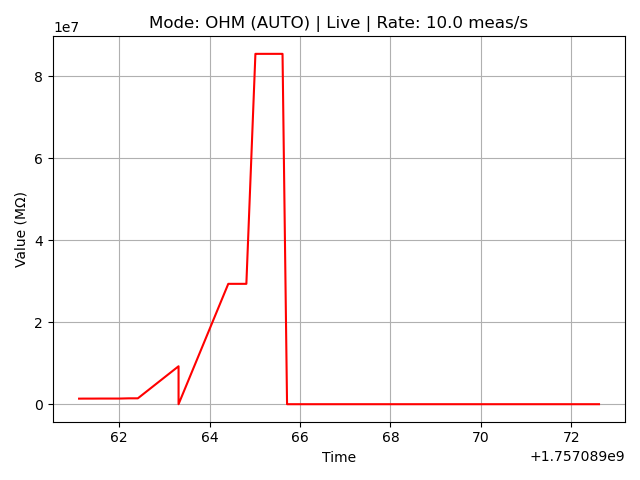
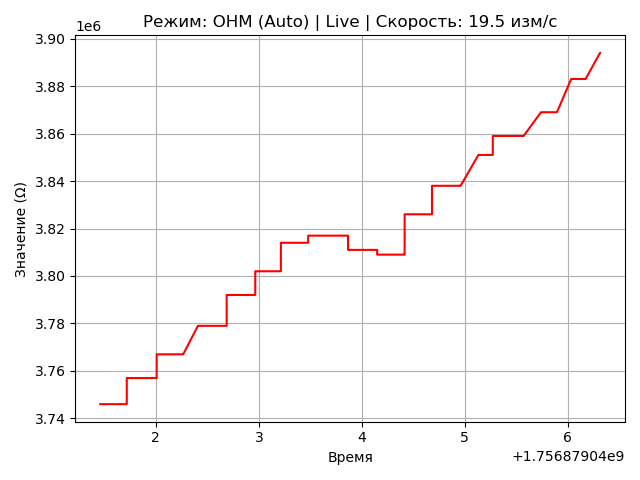
init

diff --git a/simple_examples.py b/simple_examples.py
@@ -3,55 +3,56 @@ import time
 import os
 import pandas as pd
 from ut61eplus import UT61EPLUS
+from ut61eplus import data_collector
 
-# --- CONFIGURATION ---
+# --- НАСТРОЙКА ---
 log = logging.getLogger(__name__)
 logging.basicConfig(level=logging.INFO, format='%(asctime)s - %(levelname)s - %(message)s')
 
 def example_single_measurement():
-    """Example: connect, read a single measurement, and disconnect."""
-    print("\n--- Example 1: Reading a single measurement ---")
+    """Пример: подключиться, прочитать одно измерение и отключиться."""
+    print("\n--- Пример 1: Чтение одного измерения ---")
     dmm = None
     try:
         dmm = UT61EPLUS()
         measurement = dmm.take_measurement()
         if measurement:
             data = measurement.to_dict()
-            print("Data received:")
+            print("Получены данные:")
             print(data)
         else:
-            print("Failed to get measurement.")
+            print("Не удалось получить измерение.")
     except Exception as e:
-        log.error(f"An error occurred: {e}")
+        log.error(f"Произошла ошибка: {e}")
     finally:
         if dmm:
             dmm.close()
 
 def example_multiple_measurements(count=5):
-    """Example: reading multiple measurements in a loop."""
-    print(f"\n--- Example 2: Reading {count} measurements ---")
+    """Пример: чтение нескольких измерений в цикле."""
+    print(f"\n--- Пример 2: Чтение {count} измерений ---")
     dmm = None
     try:
         dmm = UT61EPLUS()
         for i in range(count):
             measurement = dmm.take_measurement()
             if measurement:
-                print(f"Measurement {i+1}: {measurement.to_dict()}")
+                print(f"Измерение {i+1}: {measurement.to_dict()}")
             else:
-                print(f"Measurement {i+1}: Failed to get.")
-            time.sleep(0.5) # A small pause between measurements
+                print(f"Измерение {i+1}: Не удалось получить.")
+            time.sleep(0.5) # Небольшая пауза между измерениями
     except Exception as e:
-        log.error(f"An error occurred: {e}")
+        log.error(f"Произошла ошибка: {e}")
     finally:
         if dmm:
             dmm.close()
 
 def example_log_to_csv(duration_seconds=10):
-    """Example: continuous logging of data to a CSV file for a specified duration."""
-    print(f"\n--- Example 3: Logging to CSV for {duration_seconds} seconds ---")
+    """Пример: непрерывная запись данных в CSV файл в течение заданного времени."""
+    print(f"\n--- Пример 3: Запись в CSV в течение {duration_seconds} секунд ---")
     
     CSV_FILEPATH = "dmm_log.csv"
-    BUFFER_SIZE = 50 # Write to file every 50 data points
+    BUFFER_SIZE = 50 # Записывать в файл каждые 50 точек
     
     dmm = None
     data_buffer = []
@@ -63,12 +64,12 @@ def example_log_to_csv(duration_seconds=10):
         
         df = pd.DataFrame(data_buffer)
         df.to_csv(CSV_FILEPATH, mode='a', header=not os.path.exists(CSV_FILEPATH), index=False)
-        log.info(f"Wrote {len(data_buffer)} rows to {CSV_FILEPATH}")
+        log.info(f"Записано {len(data_buffer)} строк в {CSV_FILEPATH}")
         data_buffer = []
 
     try:
         dmm = UT61EPLUS()
-        log.info(f"Starting data collection... Press Ctrl+C to stop.")
+        log.info(f"Начинаю сбор данных... Нажмите Ctrl+C для остановки.")
         
         start_time = time.time()
         while time.time() - start_time < duration_seconds:
@@ -83,28 +84,28 @@ def example_log_to_csv(duration_seconds=10):
                 break
     
     except Exception as e:
-        log.error(f"An error occurred: {e}")
+        log.error(f"Произошла ошибка: {e}")
     finally:
-        log.info("Shutting down, saving remaining buffer...")
+        log.info("Завершение работы, сохраняю остатки буфера...")
         write_buffer_to_csv()
         if dmm:
             dmm.close()
 
 def example_send_command():
-    """Example: sending a command to toggle the backlight."""
-    print("\n--- Example 4: Sending 'lamp' command ---")
+    """Пример: отправка команды для включения/выключения подсветки."""
+    print("\n--- Пример 4: Отправка команды 'lamp' ---")
     dmm = None
     try:
         dmm = UT61EPLUS()
-        print("Turning on the backlight for 3 seconds...")
+        print("Включаю подсветку на 3 секунды...")
         dmm.send_command('lamp')
         time.sleep(3)
         
-        print("Turning off the backlight.")
+        print("Выключаю подсветку.")
         dmm.send_command('lamp')
-        time.sleep(1) # Pause to ensure the command has been sent
+        time.sleep(1) # Пауза чтобы убедиться что команда прошла
     except Exception as e:
-        log.error(f"An error occurred: {e}")
+        log.error(f"Произошла ошибка: {e}")
     finally:
         if dmm:
             dmm.close()
@@ -118,3 +119,5 @@ if __name__ == '__main__':
     example_log_to_csv(duration_seconds=5)
     time.sleep(2)
     example_send_command()
+
+

diff --git a/ut61eplus/ut61eplus_core.py b/ut61eplus/ut61eplus_core.py
@@ -6,7 +6,7 @@ import hid
 log = logging.getLogger(__name__)
 
 class Measurement:
-    """Class for storing and decoding a single measurement from the multimeter."""
+    """Класс для хранения и декодирования одного измерения с мультиметра."""
     _MODE = ['ACV', 'ACmV', 'DCV', 'DCmV', 'Hz', '%', 'OHM', 'CONT', 'DIDOE', 'CAP', '°C', '°F', 'DCuA', 'ACuA', 'DCmA',
              'ACmA', 'DCA', 'ACA', 'HFE', 'Live', 'NCV', 'LozV', 'ACA', 'DCA', 'LPF', 'AC/DC', 'LPF', 'AC+DC', 'LPF',
              'AC+DC2', 'INRUSH']
@@ -26,7 +26,7 @@ class Measurement:
 
     def __init__(self, b: bytes):
         if not isinstance(b, bytes) or len(b) < 14:
-            raise TypeError("Measurement requires a minimum of 14 bytes for initialization.")
+            raise TypeError("Для инициализации Measurement требуется минимум 14 байт.")
         
         self.raw_bytes = b
         self.mode = self._MODE[b[0]]
@@ -34,7 +34,7 @@ class Measurement:
         self.display = b[2:9].decode('ASCII', errors='ignore').replace(' ', '')
         self.is_overload = self.display in self._OVERLOAD
         
-        # Main flags
+        # Основные флаги
         self.is_max = (b[11] & 8) > 0
         self.is_min = (b[11] & 4) > 0
         self.is_hold = (b[11] & 2) > 0
@@ -58,7 +58,7 @@ class Measurement:
             self.unit = self.unit[1:]
 
     def to_dict(self):
-        """Returns all measurement data in the requested dictionary format."""
+        """Возвращает все данные измерения в запрашиваемом формате словаря."""
         min_max_status = None
         if self.is_max: min_max_status = 'max'
         elif self.is_min: min_max_status = 'min'
@@ -90,13 +90,13 @@ class UT61EPLUS:
     }
 
     def __init__(self):
-        log.info('Connecting to UT61E+...')
+        log.info('Подключение к UT61E+...')
         self.dev = hid.device()
         self.dev.open(self.CP2110_VID, self.CP2110_PID)
         self.dev.send_feature_report([0x41, 0x01])
         self.dev.send_feature_report([0x50, 0x00, 0x00, 0x25, 0x80, 0x00, 0x00, 0x03, 0x00, 0x00])
         self.dev.send_feature_report([0x43, 0x02])
-        log.info('Device successfully configured.')
+        log.info('Устройство успешно настроено.')
         self.read_buffer = bytearray()
 
     def _write(self, b: bytes):
@@ -113,9 +113,9 @@ class UT61EPLUS:
                     packet = self.read_buffer[start_index: start_index + full_packet_len]
                     self.read_buffer = self.read_buffer[start_index + full_packet_len:]
                     if sum(packet[:-2]) == (packet[-2] << 8) + packet[-1]: return bytes(packet[3:])
-                    log.warning("Checksum error! Packet discarded.")
+                    log.warning("Ошибка контрольной суммы! Пакет отброшен.")
                     continue
-            raw = self.dev.read(64, 10) # Optimized timeout
+            raw = self.dev.read(64, 10) # Оптимизированный таймаут
             if raw: self.read_buffer.extend(bytes(raw[1:2]))
         return None
 
@@ -125,29 +125,30 @@ class UT61EPLUS:
         return Measurement(payload[:-2]) if payload and len(payload) == 16 else None
 
     def send_command(self, cmd) -> None:
-        """Sends a command to the device."""
+        """Отправка команды на устройство."""
         cmd_code = self._COMMANDS.get(cmd) if isinstance(cmd, str) else cmd
         if not isinstance(cmd_code, int):
-            raise ValueError(f'Invalid command: {cmd}')
+            raise ValueError(f'Неверная команда: {cmd}')
 
         seq = bytearray(self._SEQUENCE_SEND_CMD)
         checksum = cmd_code + 379
         seq.extend([cmd_code, checksum >> 8, checksum & 0xff])
         
-        log.info(f"Sending command: '{cmd}' (code: {cmd_code})")
+        log.info(f"Отправка команды: '{cmd}' (код: {cmd_code})")
         self._write(seq)
-        # After a command, the device might send a response packet, which needs to be "absorbed"
+        # После команды устройство может прислать ответный пакет, его нужно "поглотить"
         self._read_packet(timeout=0.2) 
 
     def close(self):
         self.dev.close()
-        log.info("Connection to device closed.")
+        log.info("Соединение с устройством закрыто.")
 
 def data_collector(dmm, data_queue, stop_event):
-    """This function runs in a separate thread and only collects data."""
-    log.info("Data collection thread started.")
+    """Эта функция запускается в отдельном потоке и только собирает данные."""
+    log.info("Поток сбора данных запущен.")
     while not stop_event.is_set():
         measurement = dmm.take_measurement()
         if measurement:
             data_queue.put(measurement.to_dict())
-    log.info("Data collection thread stopped.")
+    log.info("Поток сбора данных остановлен.")
+

diff --git a/realtime_plot.py b/realtime_plot.py
@@ -7,17 +7,16 @@ import hid
 import matplotlib.animation as animation
 import matplotlib.pyplot as plt
 
-# Importing from our new core file
 from ut61eplus import UT61EPLUS, data_collector
 
 
-# --- CONFIGURATION ---
+# --- НАСТРОЙКА ---
 log = logging.getLogger(__name__)
 logging.basicConfig(level=logging.INFO, format='%(asctime)s - %(levelname)s - %(message)s')
 MAX_PLOT_POINTS = 100
 GUI_UPDATE_INTERVAL_MS = 100
 
-# --- Main Code ---
+# --- Основной код ---
 dmm = None
 data_collector_thread = None
 
@@ -32,13 +31,13 @@ try:
     x_data, y_data = deque(maxlen=MAX_PLOT_POINTS), deque(maxlen=MAX_PLOT_POINTS)
     fig, ax = plt.subplots()
     line, = ax.plot([], [], 'r-')
-    ax.set_xlabel("Time")
+    ax.set_xlabel("Время")
     ax.grid(True)
     fig.canvas.manager.set_window_title('UT61E+ Real-Time Data')
 
     last_time = time.time(); sample_count = 0; rate = 0
     
-    # This variable will store the latest data for title updates
+    # Эта переменная будет хранить последние данные для обновления заголовка
     last_data = {}
 
     def update(frame):
@@ -47,7 +46,7 @@ try:
         points_processed = 0
         while not data_queue.empty():
             data = data_queue.get()
-            last_data = data # Store the latest data
+            last_data = data # Сохраняем последние данные
             y_data.append(data['value'] if not data['overload'] else 0)
             x_data.append(time.time())
             points_processed += 1
@@ -62,12 +61,12 @@ try:
             line.set_data(x_data, y_data)
             ax.relim(); ax.autoscale_view()
             
-            # Use the new keys from the dictionary
+            # Используем новые ключи из словаря
             status_hold = "HOLD" if last_data.get('hold') else "Live"
             status_range = last_data.get('range', 'N/A')
-            title = f"Mode: {last_data.get('mode')} ({status_range}) | {status_hold} | Rate: {rate:.1f} meas/s"
+            title = f"Режим: {last_data.get('mode')} ({status_range}) | {status_hold} | Скорость: {rate:.1f} изм/с"
             ax.set_title(title, fontsize=12)
-            ax.set_ylabel(f"Value ({last_data.get('unit') or 'N/A'})")
+            ax.set_ylabel(f"Значение ({last_data.get('unit') or 'N/A'})")
             fig.tight_layout()
 
         return line,
@@ -75,11 +74,12 @@ try:
     ani = animation.FuncAnimation(fig, update, blit=False, interval=GUI_UPDATE_INTERVAL_MS, save_count=0)
     plt.show()
 
-except hid.HIDException as e: log.error(f"HID Error: {e}")
-except KeyboardInterrupt: log.info("Program stopped.")
-except Exception: log.error("Unexpected error:", exc_info=True)
+except hid.HIDException as e: log.error(f"Ошибка HID: {e}")
+except KeyboardInterrupt: log.info("Программа остановлена.")
+except Exception: log.error("Непредвиденная ошибка:", exc_info=True)
 finally:
     if data_collector_thread:
         stop_event.set()
         data_collector_thread.join()
     if dmm: dmm.close()
+
